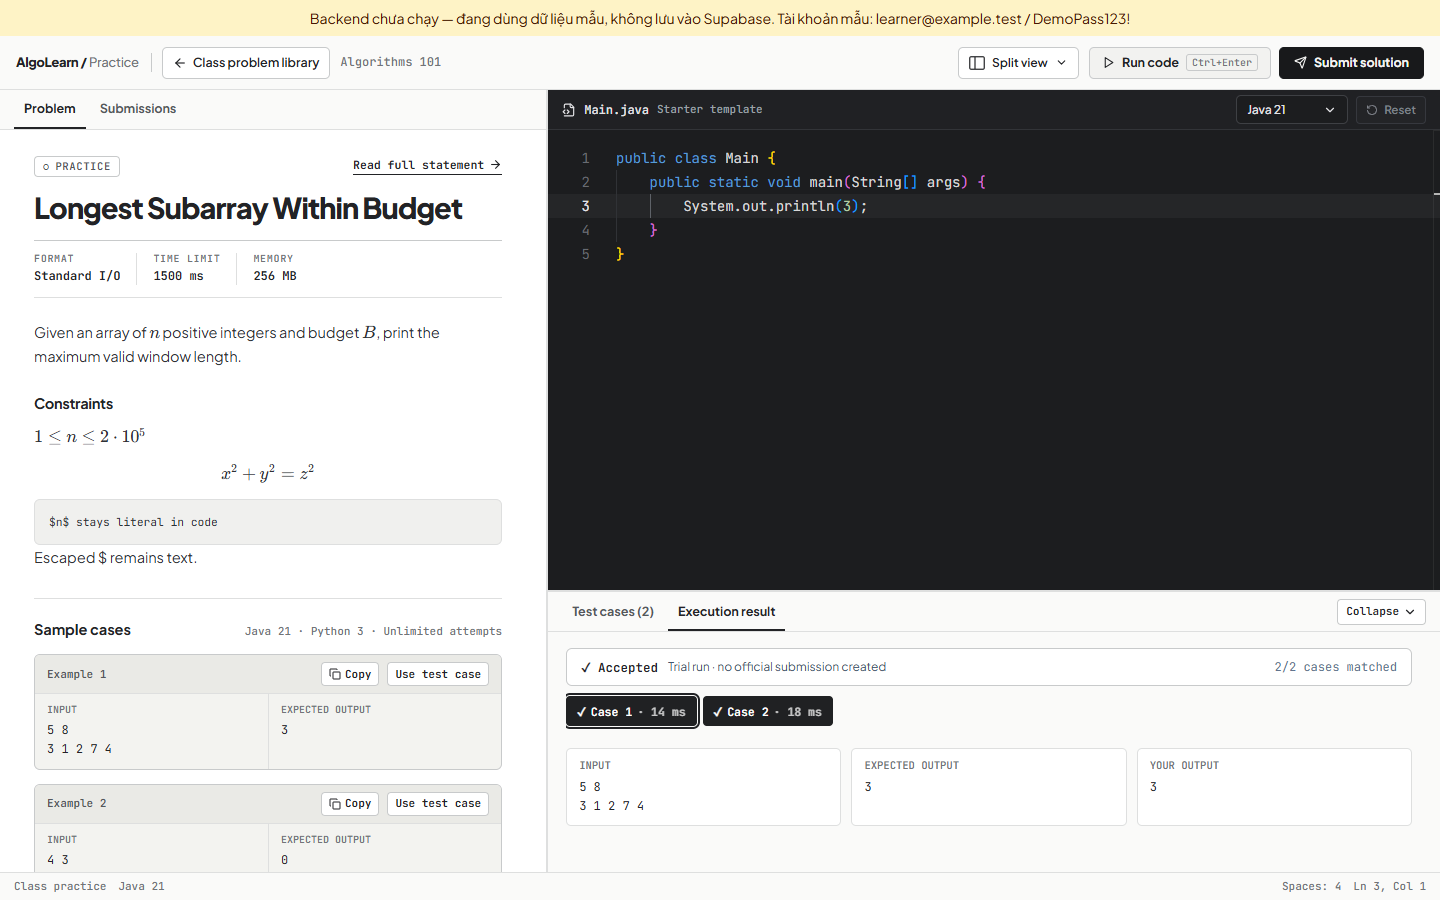
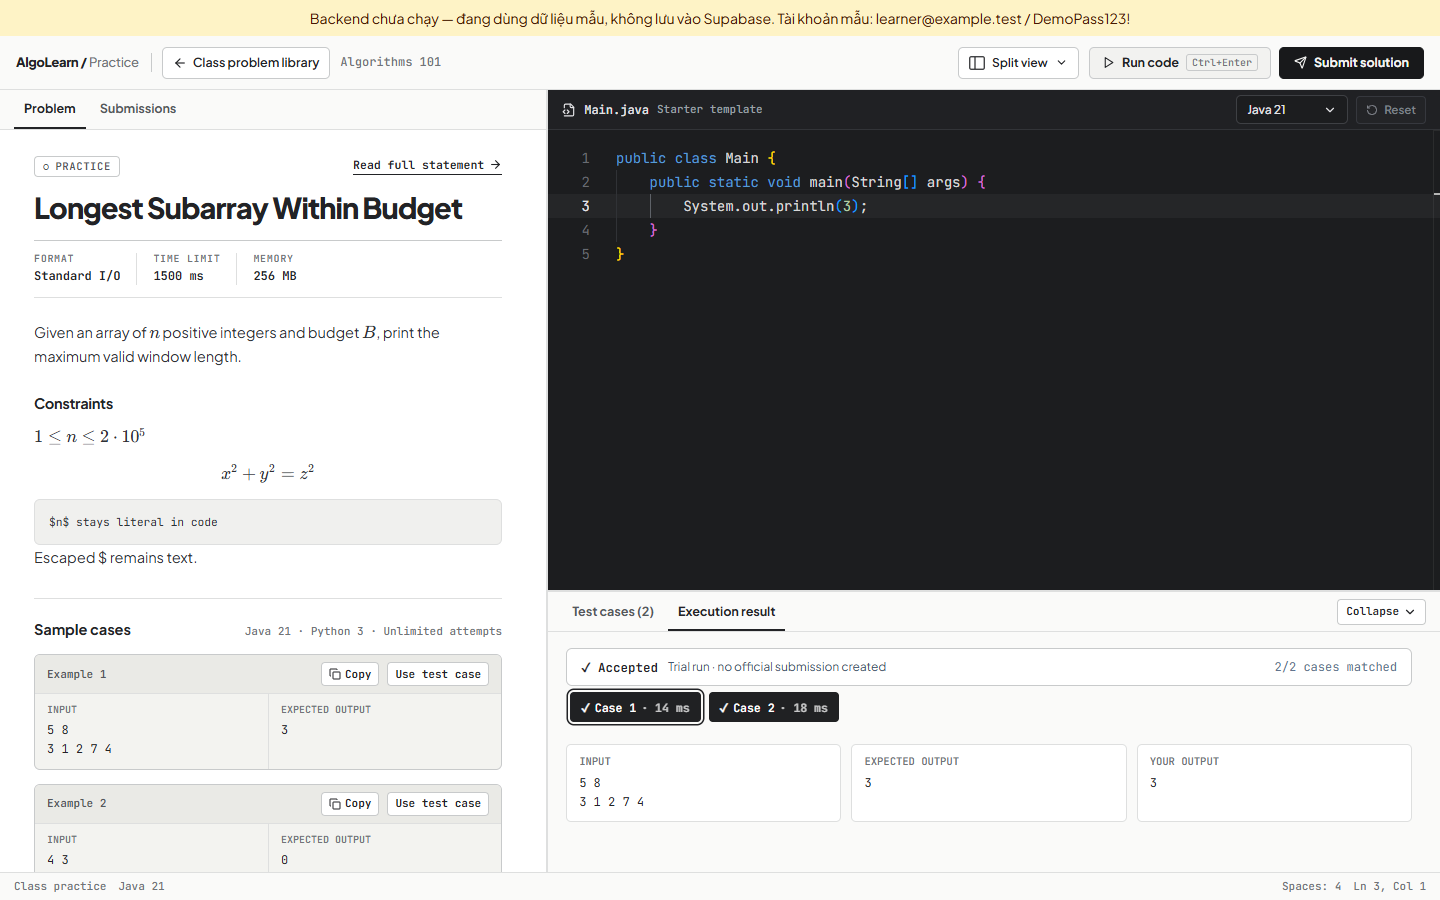
fix(practice): prevent case selector pill outline clipping

Changed region(s): [[0.375, 0.7467, 0.5938, 0.9022], [0.7812, 0.84, 0.8438, 0.8711], [0.5938, 0.84, 0.6562, 0.8711]]

diff --git a/frontend/src/features/practice/styles/practice.css b/frontend/src/features/practice/styles/practice.css
@@ -1600,9 +1600,9 @@
 .practice-case-strip {
   display: flex;
   align-items: center;
-  gap: 6px;
+  gap: 8px;
   overflow-x: auto;
-  padding: 10px 0 12px;
+  padding: 6px 4px 12px;
 }
 
 .practice-case-pill {
@@ -1627,8 +1627,12 @@
 }
 
 .practice-case-pill[data-selected='true'] {
-  outline: 2px solid var(--prac-ink);
-  outline-offset: 1px;
+  border-color: var(--prac-ink);
+  box-shadow: 0 0 0 1px var(--prac-ink);
+}
+
+.practice-case-pill[data-verdict='ACCEPTED'][data-selected='true'] {
+  box-shadow: 0 0 0 2px #fafaf8, 0 0 0 3.5px var(--prac-ink);
 }
 
 .practice-io-compare {
